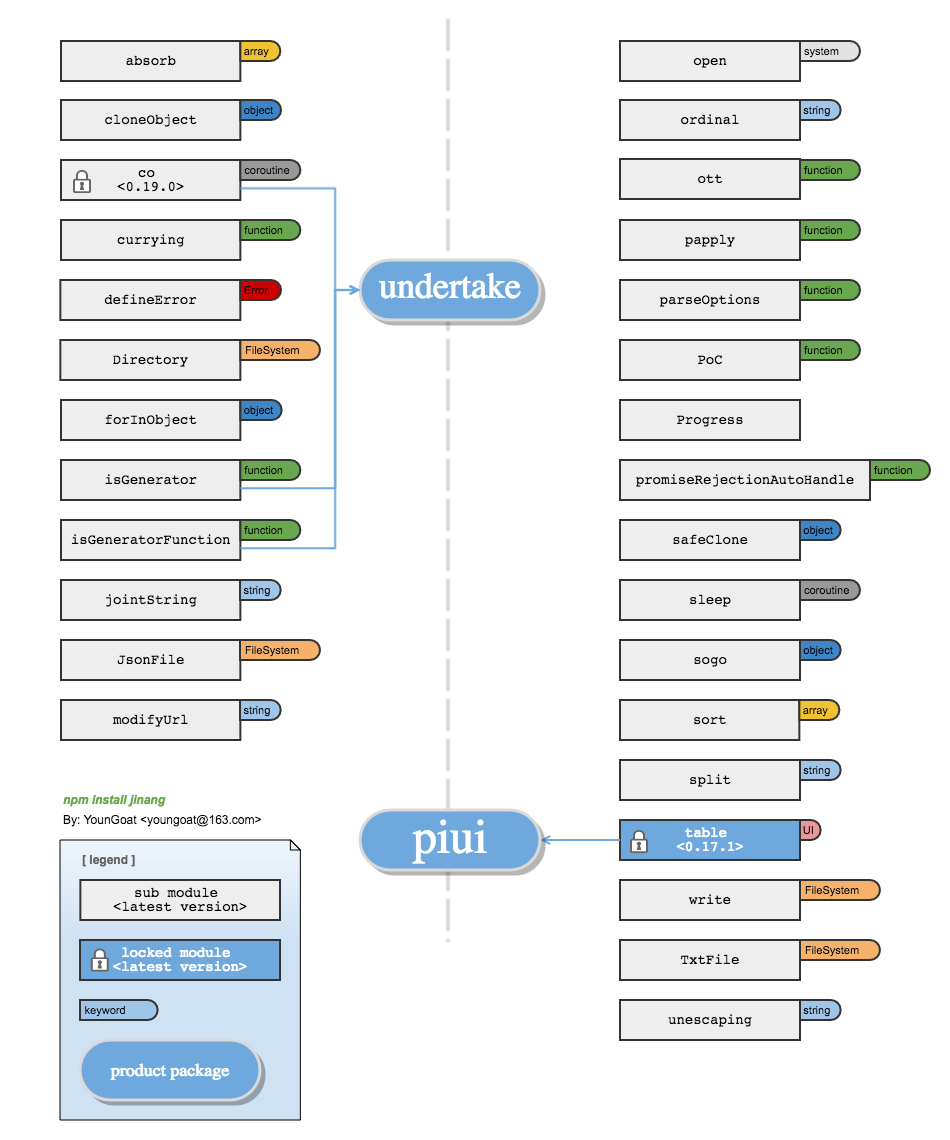
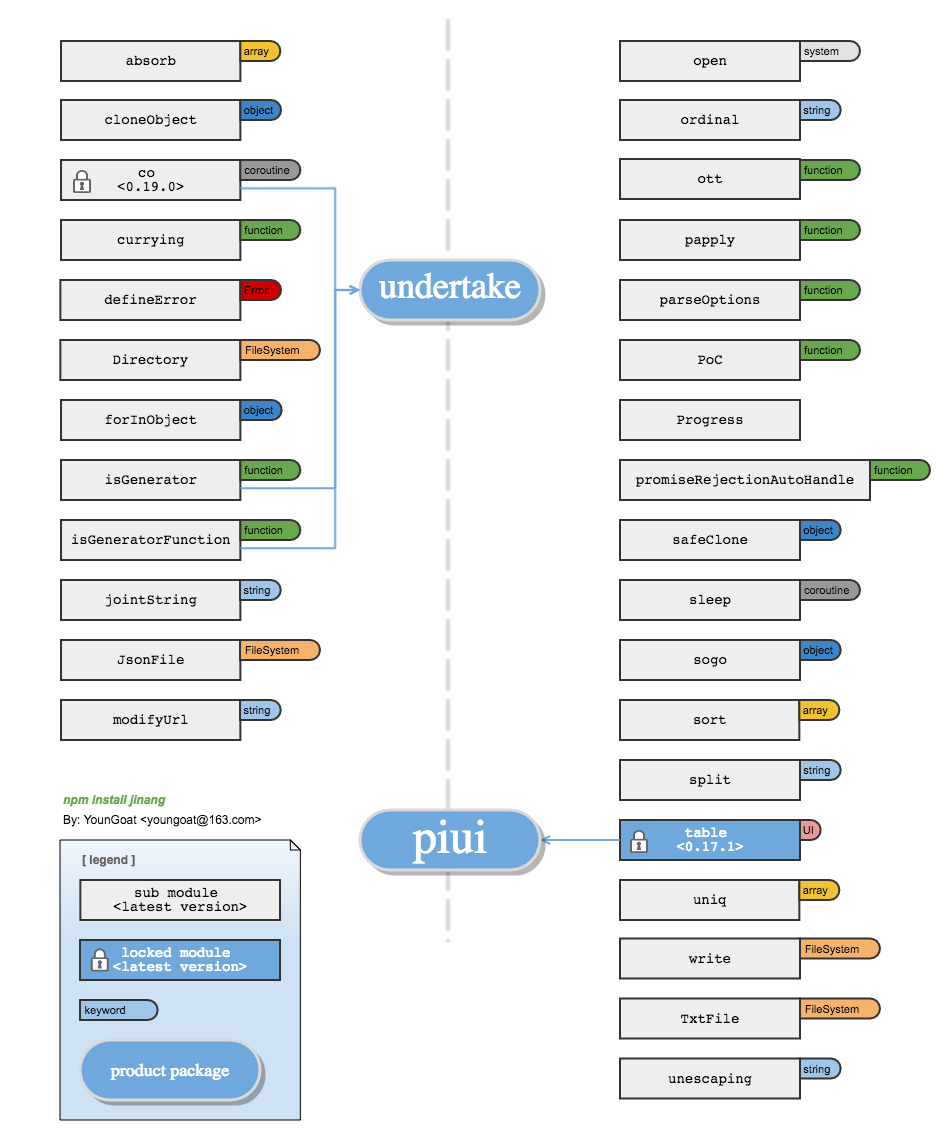
Auto committed by YUPP

Changed region(s): [[0.6716, 0.7675, 0.9463, 0.9518], [0.6411, 0.9211, 0.6716, 0.9518]]

diff --git a/uniq.js b/uniq.js
@@ -1,0 +1,50 @@
+/**
+ * Sort an array.
+ * @author YounGoat <youngoat@163.com>
+ */
+
+'use strict';
+
+const MODULE_REQUIRE = 1
+	/* built-in */
+	
+	/* NPM */
+	
+	/* in-package */
+	;
+
+function uniq(arr, options) {
+	if (typeof options == 'string') {
+		options = { parser: options };
+	}
+	options = Object.assign({
+		parser: null,
+	}, options);
+
+	if (typeof options.parser == 'string') {
+		let property = options.parser;
+		if (property.endsWith('()')) {
+			property = property.slice(0, -2);
+			options.parser = item => item[property]();
+		}
+		else {
+			options.parser = item => item[property];
+		}
+	}
+
+	let uniqArr = [], last = null;
+	if (arr.length) {
+		last = arr[0];
+		uniqArr.push(last);
+	}
+	for (let i = 1; i < arr.length; i++) {
+		if (last !== arr[i]) {
+			last = arr[i];
+			uniqArr.push(last);
+		}
+	}
+
+	return uniqArr;
+}
+
+module.exports = uniq;

diff --git a/Directory.js b/Directory.js
@@ -101,7 +101,9 @@ Directory.prototype.rmfr = function(name) {
 };
 
 Directory.prototype.write = function(name, data) {
-    fs.writeFileSync(this.resolve(name), data);
+    let realpath = this.resolve(name);
+    mkdirp(path.dirname(realpath));
+    fs.writeFileSync(realpath, data);
     return;
 };
 

diff --git a/isGeneratorFunction.js b/isGeneratorFunction.js
@@ -1,3 +1,5 @@
+'use strict';
+
 let GeneratorFunction = Object.getPrototypeOf(function*(){}).constructor;
 
 module.exports = function(fn) {

diff --git a/docs/Directory.md b/docs/Directory.md
@@ -1,13 +1,13 @@
 ##	jinang/Directory
 
-*   class       __Directory__( string *homepath* )
-*   void        __\<instance\>.append__ ( string *filename*, string | Buffer *data* )
-*   ReadStream  __\<instance\>.createReadStream__  ( string *filename* [, object *options* ] )
-*   WriteStream __\<instance\>.createWriteStream__ ( string *filename* [, object *options* ] )
-*   boolean     __\<instance\>.exists__ ( string *filename* )
-*   void        __\<instance\>.mkdir__  ( string *pathname* )
-*   number      __\<instance\>.open__   ( string *pathname*, string *flags* )
-*   void        __\<instance\>.read__   ( string *filename*, string | Buffer *encoding* )
-*   string      __\<instance\>.resolve__( string *filename* )
-*   void        __\<instance\>.rmfr__   ( string *filename* )
-*   void        __\<instance\>.write__  ( string *filename*, string | Buffer *data* )
+*   class           __Directory__( string *homepath* )
+*   void            __\<instance\>.append__ ( string *filename*, string | Buffer *data* )
+*   ReadStream      __\<instance\>.createReadStream__  ( string *filename* [, object *options* ] )
+*   WriteStream     __\<instance\>.createWriteStream__ ( string *filename* [, object *options* ] )
+*   boolean         __\<instance\>.exists__ ( string *filename* )
+*   void            __\<instance\>.mkdir__  ( string *pathname* )
+*   number          __\<instance\>.open__   ( string *pathname*, string *flags* )
+*   String | Buffer __\<instance\>.read__   ( string *filename*, string | Buffer *encoding* )
+*   string          __\<instance\>.resolve__( string *filename* )
+*   void            __\<instance\>.rmfr__   ( string *filename* )
+*   void            __\<instance\>.write__  ( string *filename*, string | Buffer *data* )

diff --git a/docs/uniq.md b/docs/uniq.md
@@ -1,0 +1,28 @@
+##	jinang/uniq
+
+Compare silbling items in an arry and ignore the replications.
+
+```javascript
+const uniq = require('jinang/uniq');
+
+let nums = [2, 1, 1, 2, 3];
+uniq(nums);
+// RETURN [2, 1, 2, 3];
+```
+
+### API
+
+*   Array __uniq__( Array *data* )
+
+*options* looks like:
+```javascript
+{
+    parser, /* string | Function OPTIONAL */
+}
+```
+
+*   If *parser* is a string, corresponding property or member method of item in *data* will be used on being compared with each other.  
+    If string *parser* ends with `()`, it is regarded as referring to a member method which will be invoked __with no arguments__ and the returned value will be compared with each other.  
+    Otherwise, string *parser* is regarded as name of a property.
+
+*   If *parser* is a function, it will be invoked with array item as the only argument on being compared, and the returned value will be compared with each other.

diff --git a/CHANGELOG.md b/CHANGELOG.md
@@ -2,6 +2,13 @@
 
 Notable changes to this project will be documented in this file. This project adheres to [Semantic Versioning 2.0.0](http://semver.org/).
 
+##  [0.22.0] - May 13th, 2018
+
+Developed on Apr 24th, 2018.
+
+*   __[jinang/uniq](./docs/uniq.md)__ added.
+*   __[jinang/Directory](./docs/Directory.md)__ fixed: `.write()` throws when physical directory has not been created.
+
 ##  [0.21.0] - Apr 23rd, 2018
 
 *   __[jinang/forInObject](./docs/forInObject.md)__ / __[jinang/inof](./docs/inof.md)__ will depress exception while `null` is passed in.

diff --git a/README.md b/README.md
@@ -106,6 +106,8 @@ For your convenience, avaiable modules included in *jinang* are listed here (alp
     Wrapper of a .txt file.
 *   [unescaping](./docs/unescaping.md) :
     A tiny and flexible template render.
+*   [uniq](./docs/uniq.md) :
+    Compare sibling items in an array and ignore the replications.
 *   [write](./docs/write.md) :
     Write into a file. If file not exists, create it.
 
